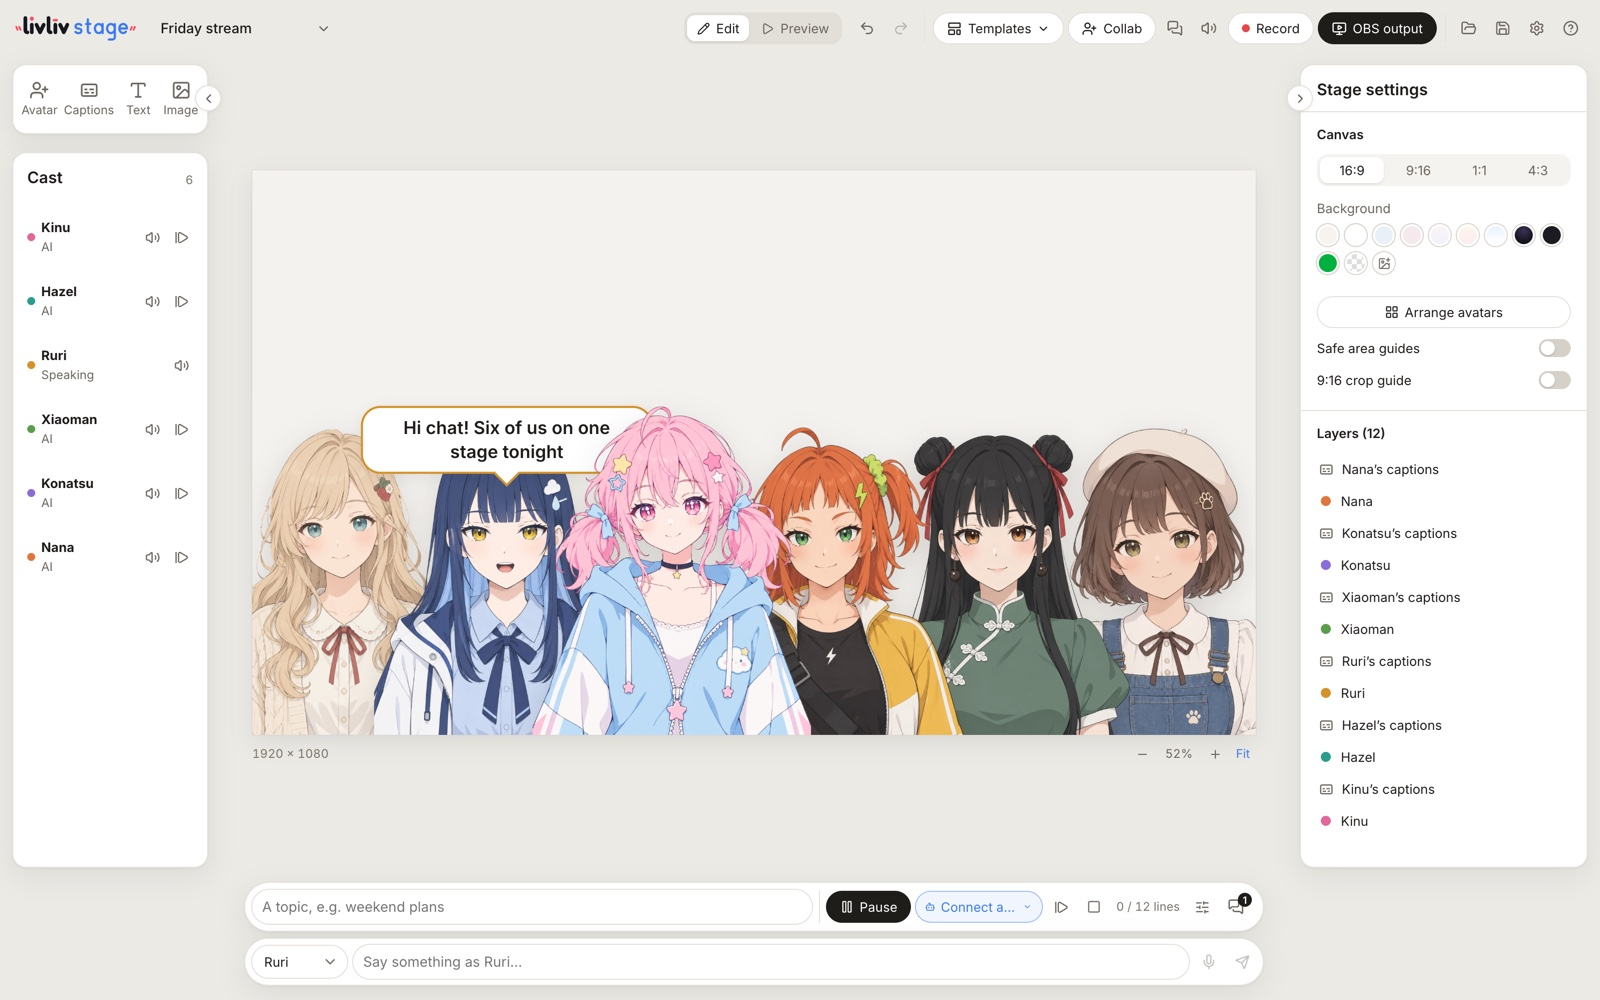
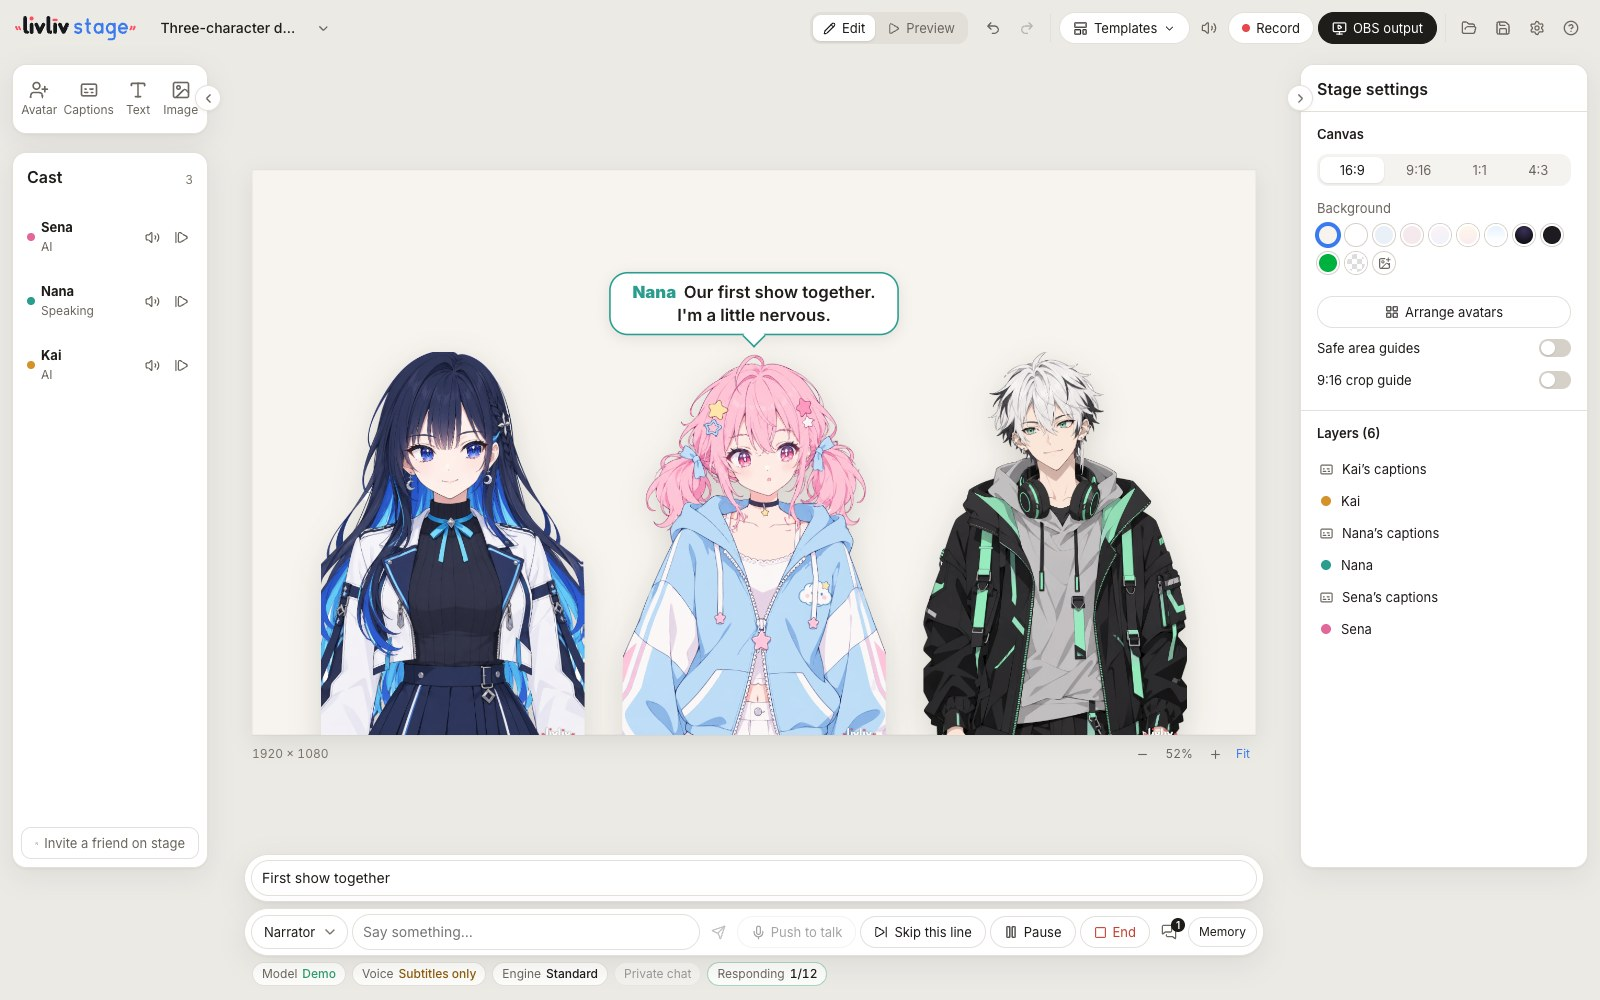
README: a 1.0 screenshot
The editor picture now shows 1.0: the demo running, with the new controls and
the status line.

diff --git a/README.md b/README.md
@@ -38,7 +38,7 @@ The AI runs on your own model key (OpenAI, Qwen, DeepSeek and more) or your LivL
 - **Online (Web, limited features)**: [livliv.ai/stage](https://livliv.ai/stage)
 - **From source**: see [Develop](#develop)
 
-<p align="center"><img src="media/editor.jpg" alt="The Stage editor: six characters on one stage, Ruri saying a line" width="720"></p>
+<p align="center"><img src="media/editor.jpg" alt="Stage 1.0: Sena, Nana and Kai on stage, Nana saying a line" width="720"></p>
 
 ## Characters
 
